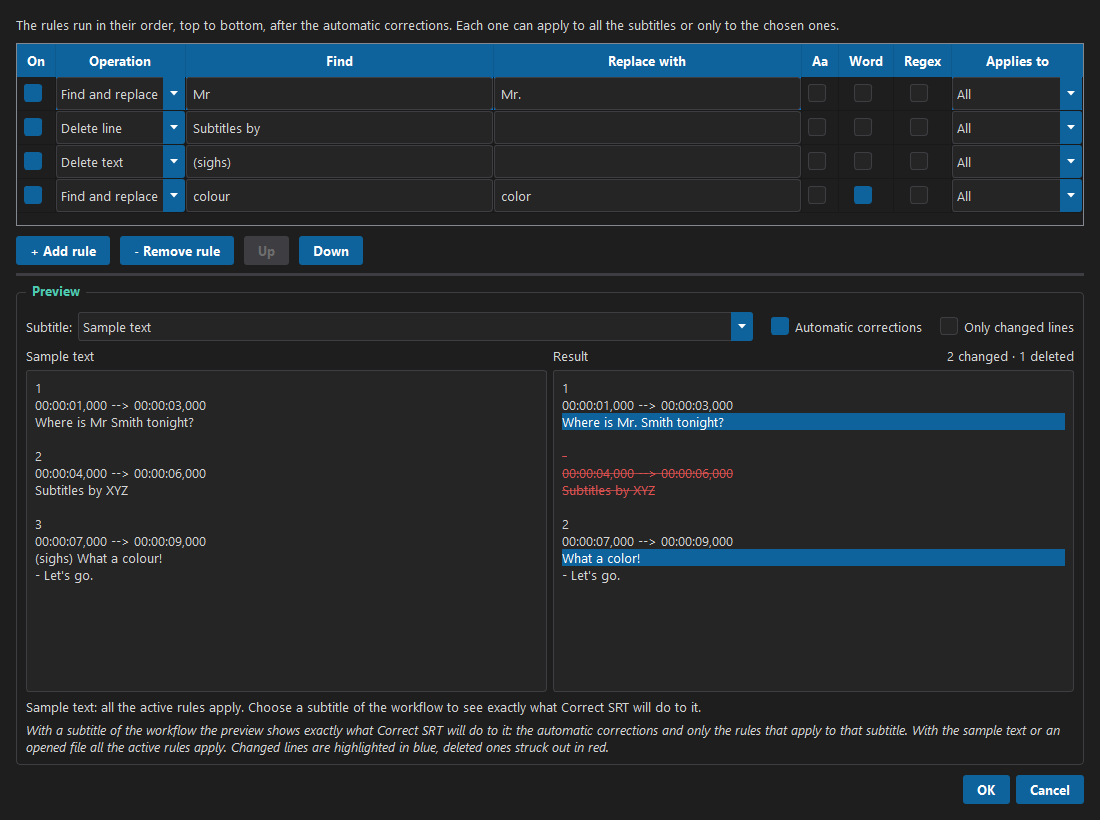
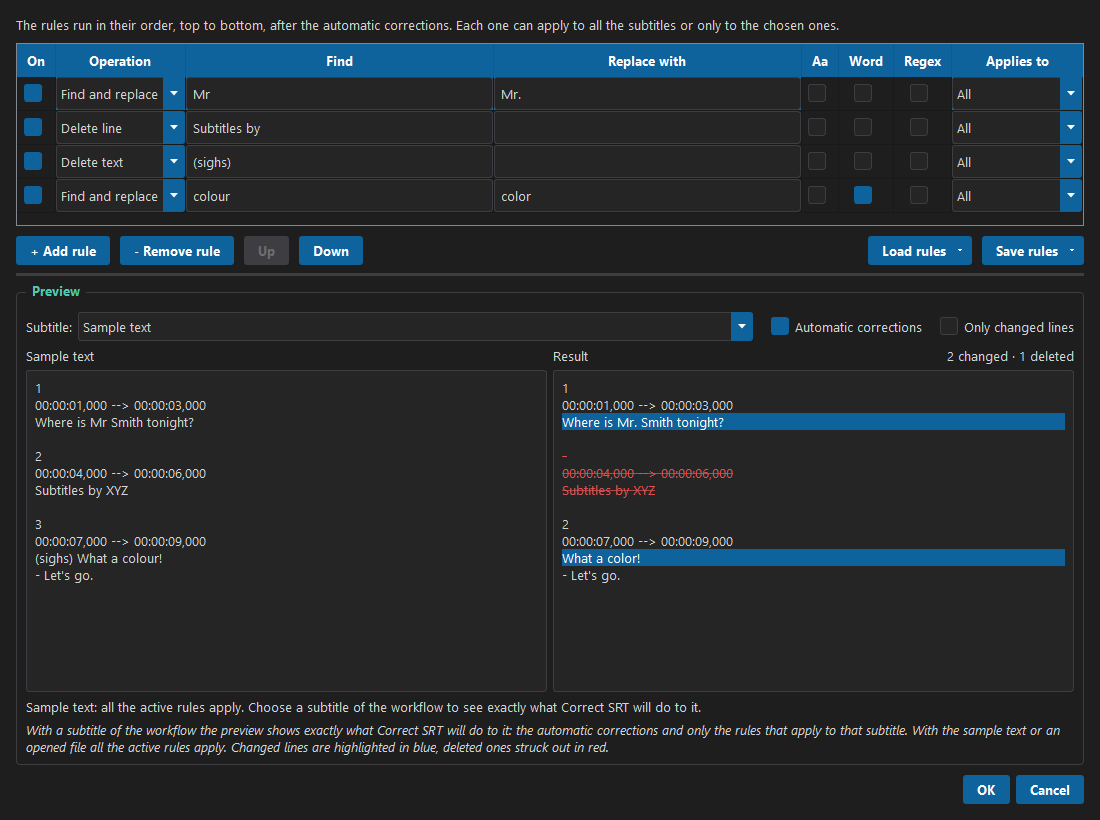
Sequentia Nexus 0.61.5: guide and screenshots
Claude-Session: https://claude.ai/code/session_017HYd5PYC7eUhLz78jn6fqX

Changed region(s): [[0.7727, 0.2744, 0.9891, 0.3354]]

diff --git a/docs/HOW_TO_USE.md b/docs/HOW_TO_USE.md
@@ -1,6 +1,6 @@
 # How to use Sequentia Nexus
 
-This guide covers version **0.59.4**. Sequentia Nexus is in beta: some parts may still change.
+This guide covers version **0.61.5**. Sequentia Nexus is in beta: some parts may still change.
 
 **Contents**
 
@@ -51,6 +51,7 @@ The app needs some external programs. The first time they are missing, the
 | **mkvmerge** | Merging the final MKV files |
 | **mkvpropedit** | The *Aspect ratio* step |
 | **tesseract** *(optional)* | Only the *Convert image subtitles to SRT* step |
+| **Microsoft Visual C++ Redistributable** *(optional)* | Only the *Transcribe audio to subtitles* step (most PCs already have it) |
 
 - A green check means the program is ready.
 - **Install** installs a single missing item; **Install all missing** installs all the
@@ -130,6 +131,8 @@ input, work and output folders. Then:
   runs.
   The pre-flight window says so each time; to see it only in the log, untick
   **Warn when the movies or TV series input folder has no videos** (Preferences → Folders).
+  An input folder that is not set at all counts as empty: you can leave the TV Series folder blank if you only process movies (or the other way round).
+  If an input folder no longer exists (for example a USB or network disk not connected), a window asks before the checks: **Retry**, **Change folder...** (saved in Preferences), **Skip this part** (Movies / TV Series only) or **Cancel**. If the Movies or TV Series input folder is not set but *Transfer audio and subtitles* has pairs of files in that part, you can **Choose input folder...** or **Go on with the pairs only**.
 
 ---
 
@@ -576,7 +579,7 @@ file (`[2/3] Conversion -> ...`).
 
 ### Subtitles
 
-These steps run in this order: OCR → Create missing → Correct → Synchronize. Each one passes
+These steps run in this order: OCR → Transcribe → Create missing → Correct → Synchronize. Each one passes
 all the subtitles on to the next step, including the ones it does not change.
 
 #### Convert image subtitles to SRT
@@ -598,6 +601,18 @@ SDH track without "SDH" in its title looks like a regular one. After the OCR, a 
 subtitle with many sound descriptions in brackets (the *SDH threshold* of *Extract audio and
 subtitles*) becomes an **SDH**, and *Create missing subtitles* then makes the clean regular
 from it. When SDH is not ticked in the extraction, the sound descriptions are removed at once.
+
+#### Transcribe audio to subtitles
+
+Creates the subtitle of the videos that have none in the language of *Extract audio and subtitles*, by listening to the audio (speech to text, with the Whisper model). The result is the **regular** subtitle, which then goes through *Create missing subtitles*, *Correct SRT files* and *Synchronize subtitles* like the others.
+
+The parameters list the videos of the input folder (or of the queue) **without a subtitle in that language**, with their length and audio languages. Tick the videos to transcribe, or use **Select all** / **Deselect all**: at the start none is ticked, and the ticks are not saved in presets. A video whose subtitle in the language is an **image** (DVD, Blu-ray) is listed, in orange, only when the workflow has no OCR: the OCR reads the real subtitle of the disc, more accurate than a transcription, and **Add the OCR to the workflow** adds that step with one click. The check before the start warns when no video is ticked or a ticked video has an image subtitle.
+
+- The audio track used is the one in the language of the workflow (not a commentary), or a track without a language.
+- A voice filter skips music and silence; lines Whisper is unsure of, typical invented phrases ("Thanks for watching") and repeated lines are left out.
+- The lines follow the usual subtitle rules: at most two lines of 42 characters, a new subtitle at the end of a sentence or after a pause, enough time on screen to read it.
+- Only the dialogue is written: no *forced* subtitle (signs on screen) and no sound descriptions.
+- The model is downloaded once in [Preferences → Speech to text](#speech-to-text). With an NVIDIA video card a film takes a few minutes; with the CPU from half an hour to more than an hour.
 
 #### Create missing subtitles
 
@@ -1015,6 +1030,8 @@ The rules run from top to bottom, after the automatic corrections. Use **Up** an
 change their order. The window can be maximised; drag the bar between the table and the
 preview to resize them.
 
+**Saving and loading rules.** The rules are saved with the preset, and you can also keep them apart to use them in other workflows: **Save rules → Save with a name...** keeps them in the program, **Save rules → Export to a file...** writes a `.json` file to keep or to send to someone. **Load rules** lists the saved rules, plus **Open a file...** and **Delete saved rules...**. When the window already has rules, the program asks whether to **Replace** them or **Add at the end** the loaded ones. A rule that applies only to some subtitles finds them again when they are in this workflow too; otherwise its *Applies to* shows *None* in red, and you tick the subtitles again.
+
 #### Preview
 
 The preview shows the result live: changed lines in **blue**, deleted ones **struck out in
@@ -1113,6 +1130,16 @@ the workflow is stopped or has other errors (for example a failed upload).
 | Tesseract | Where Tesseract was found. Leave *Path* empty unless you installed it in an unusual place. |
 | Parallel OCR processes | See [Speed](#ocr-of-image-subtitles). |
 
+### Speech to text
+
+| Setting | |
+|---|---|
+| Model | **large-v3-turbo** (default, about 1.5 GB, fast) or **large-v3** (about 2.9 GB, the most accurate, 3-4 times slower), with **Download** / **Remove**. Whisper models under the MIT licence, from Hugging Face. |
+| Transcribe with | *Automatic*: the NVIDIA video card when it is ready, otherwise the CPU; or *The CPU only*. The card is the one chosen in [GPU](#gpu). |
+| NVIDIA libraries | To use the video card the NVIDIA cuBLAS libraries are needed (about 0.5 GB, downloaded from NVIDIA with **Download**, under their licence). Without them the CPU is used. |
+
+Closing the window during a download cancels it.
+
 ### Notifications
 
 Both are off by default.
@@ -1152,6 +1179,7 @@ The servers used by the **Upload to server** step, one tab each. **+ Add server*
   good test also saves the **server key**, which is checked at every later connection: if
   another computer answered at that address, nothing would be sent. After a reset of the NAS
   the key changes, and the app asks whether to accept the new one.
+  It also reads the list of that folder, which travels like a file: a server that accepts the login but cannot transfer anything is reported here, not during the workflow.
 
 To reach the NAS from outside, its port has to be opened on the home router (with a dynamic
 DNS name if your home IP address changes), or you can connect through a VPN (Tailscale,
@@ -1343,6 +1371,8 @@ On Windows, in `%APPDATA%\SequentiaNexus\`:
 | `presets\` | Your presets |
 | `logs\` | The saved logs, if turned on |
 | `ocr\` | The downloaded OCR languages |
+| `stt\` | The speech-to-text models and the NVIDIA libraries |
+| `srt_rules\` | The saved rules of *Correct SRT files* |
 | `requirements.json` | The last requirements check |
 | `license.json` | The license activated on this PC (the activation is protected by Windows) |
 | `steps\` | The steps received from the license server, encrypted |

diff --git a/README.md b/README.md
@@ -10,7 +10,7 @@
 </p>
 
 <p align="center">
-  <img alt="Version" src="https://img.shields.io/badge/version-0.59.4-0e639c">
+  <img alt="Version" src="https://img.shields.io/badge/version-0.61.5-0e639c">
   <img alt="Platform" src="https://img.shields.io/badge/platform-Windows%2010%20%7C%2011-0e639c">
   <img alt="Status" src="https://img.shields.io/badge/status-beta-d08a1e">
 </p>
@@ -50,9 +50,12 @@ every video in a folder. The result is a clean MKV with the audio and subtitles 
   Several files are converted at the same time.
 - **Read image subtitles** from Blu-rays (`.sup`) and DVDs (`.idx/.sub`) and turn them into
   SRT text, with a smart correction that fixes the typical OCR mistakes.
+- **Subtitles from the audio**: a video without subtitles gets one by speech to text
+  (Whisper), on the NVIDIA video card or on the CPU.
 - **Fix the subtitles**: clean tags and encoding errors, create a missing *regular* or
   *forced* subtitle, resync the timing, and add your own find-and-replace rules with a live
-  preview on the real subtitles of your videos.
+  preview on the real subtitles of your videos; save the rules and load them in other
+  workflows, or share them as a file.
 - **Merge** everything into an MKV, or **encode** the video (NVIDIA NVENC or CPU,
   H.264 / H.265). With two NVIDIA cards, two videos are encoded at the same time, and the
   CPU converts the audio while the cards encode.
